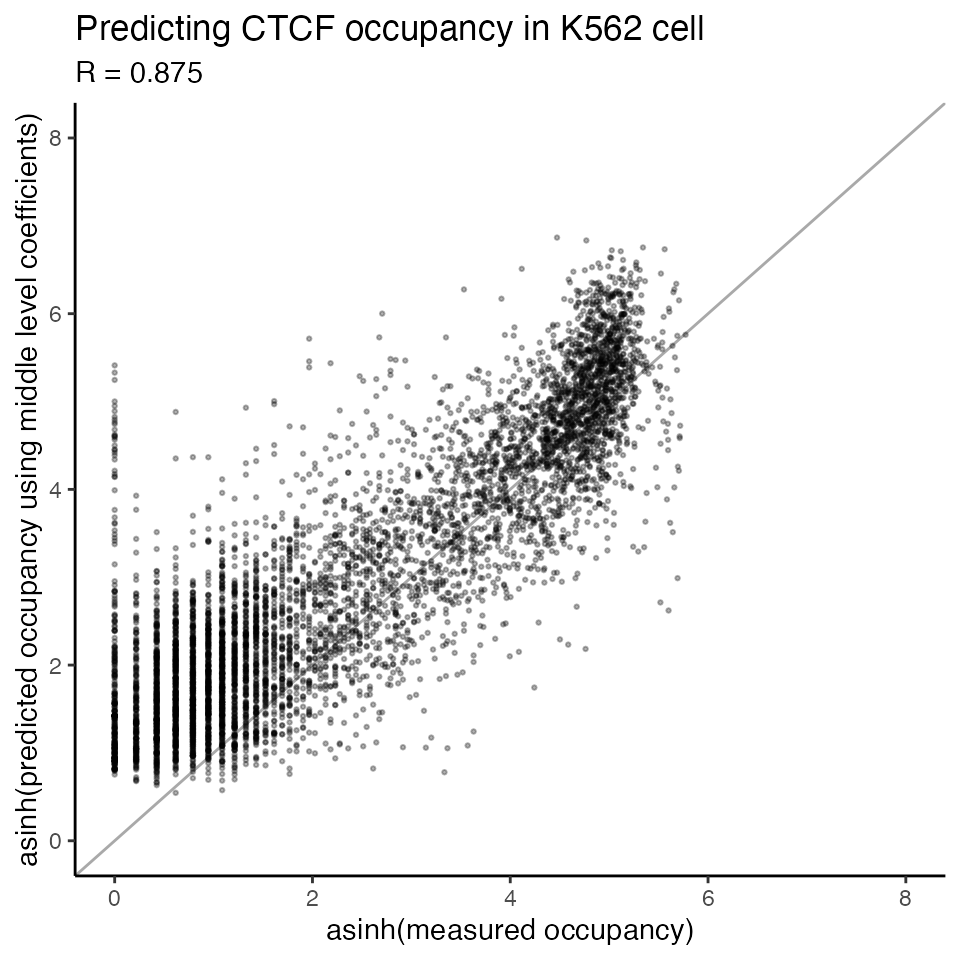
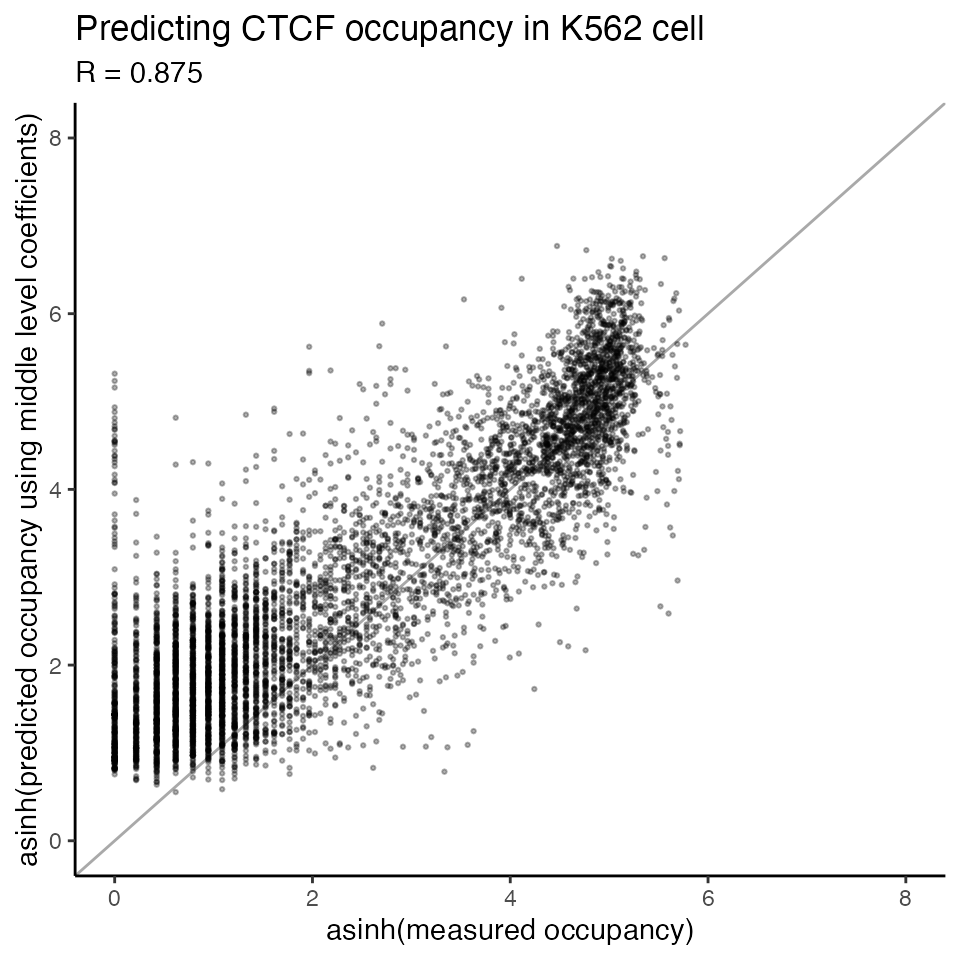
updated website

diff --git a/docs/articles/predict_TF_occupancy_with_trained_model.html b/docs/articles/predict_TF_occupancy_with_trained_model.html
@@ -33,7 +33,7 @@
       </button>
       <span class="navbar-brand">
         <a class="navbar-link" href="../index.html">TOP</a>
-        <span class="version label label-default" data-toggle="tooltip" data-placement="bottom" title="">0.10.0</span>
+        <span class="version label label-default" data-toggle="tooltip" data-placement="bottom" title="">0.11.0</span>
       </span>
     </div>
 
@@ -98,8 +98,7 @@
 <h2 id="load-top-r-package">Load TOP R package<a class="anchor" aria-label="anchor" href="#load-top-r-package"></a>
 </h2>
 <div class="sourceCode" id="cb1"><pre class="downlit sourceCode r">
-<code class="sourceCode R"><span class="kw"><a href="https://rdrr.io/r/base/library.html" class="external-link">library</a></span><span class="op">(</span><span class="va"><a href="https://github.com/kevinlkx/TOP" class="external-link">TOP</a></span><span class="op">)</span>
-<span class="kw"><a href="https://rdrr.io/r/base/library.html" class="external-link">library</a></span><span class="op">(</span><span class="va"><a href="https://ggplot2.tidyverse.org" class="external-link">ggplot2</a></span><span class="op">)</span></code></pre></div>
+<code class="sourceCode R"><span class="kw"><a href="https://rdrr.io/r/base/library.html" class="external-link">library</a></span><span class="op">(</span><span class="va"><a href="https://github.com/kevinlkx/TOP" class="external-link">TOP</a></span><span class="op">)</span></code></pre></div>
 </div>
 <div class="section level2">
 <h2 id="load-data">Load data<a class="anchor" aria-label="anchor" href="#load-data"></a>
@@ -121,32 +120,44 @@
 <span class="co">#&gt; 3    0    0</span></code></pre></div>
 </div>
 <div class="section level2">
-<h2 id="load-pre-trained-top-models">Load pre-trained TOP models<a class="anchor" aria-label="anchor" href="#load-pre-trained-top-models"></a>
+<h2 id="predict-tf-occupancy-using-pretrained-top-model">Predict TF occupancy using pretrained TOP model<a class="anchor" aria-label="anchor" href="#predict-tf-occupancy-using-pretrained-top-model"></a>
 </h2>
-<p>We have trained models for DNase-seq and ATAC-seq using ENCODE data.</p>
-<p>The pre-trained model parameters can be downloaded from <a href="https://users.cs.duke.edu/~amink/software/" class="external-link">here</a>.</p>
-</div>
-<div class="section level2">
-<h2 id="predict-tf-occupancy-using-trained-top-model">Predict TF occupancy using trained TOP model<a class="anchor" aria-label="anchor" href="#predict-tf-occupancy-using-trained-top-model"></a>
-</h2>
-<p>We can make predictions using the posterior mean of pre-trained TOP model regression coefficients for ATAC-seq.</p>
+<p>We can predict TF occupancy for a TF in a cell type using the <code><a href="../reference/predict_TOP.html">predict_TOP()</a></code> function.</p>
+<p>We have trained TOP models for ATAC-seq and DNase-seq (Duke and UW) data using ENCODE data, and included pre-trained TOP model coefficients (posterior mean) within the package.</p>
+<p>If you want to use the pre-trained TOP model coefficients included in the package, you simply specify the model to use, by setting <code>use_model</code> equals “ATAC”, “DukeDNase”, or “UwDNase”.</p>
+<p>For example, here we chose the pretrained “ATAC” model.</p>
+<p>We chose the “bottom” level regression coefficients as we know that have CTCF ChIP data from K562 cell type in our training set.</p>
 <div class="sourceCode" id="cb3"><pre class="downlit sourceCode r">
-<code class="sourceCode R"><span class="va">TOP_coef</span> <span class="op">&lt;-</span> <span class="fu"><a href="https://rdrr.io/r/base/readRDS.html" class="external-link">readRDS</a></span><span class="op">(</span><span class="fu"><a href="https://rdrr.io/r/base/system.file.html" class="external-link">system.file</a></span><span class="op">(</span><span class="st">"extdata/trained_model_coef/ATAC"</span>, <span class="st">"TOP_M5_posterior_mean_coef.rds"</span>, package <span class="op">=</span> <span class="st">"TOP"</span><span class="op">)</span><span class="op">)</span></code></pre></div>
-<p>Now we can predict CTCF occupancy in K562 cell type using the <code>predict_TOP</code> function:</p>
-<p>We can choose the “bottom” level regression coefficients as we have CTCF ChIP data from K562 cell type in our training set.</p>
-<div class="sourceCode" id="cb4"><pre class="downlit sourceCode r">
 <code class="sourceCode R"><span class="va">TOP_result</span> <span class="op">&lt;-</span> <span class="fu"><a href="../reference/predict_TOP.html">predict_TOP</a></span><span class="op">(</span><span class="va">data</span>, 
-                          TOP_coef <span class="op">=</span> <span class="va">TOP_coef</span>, 
                           tf_name <span class="op">=</span> <span class="st">'CTCF'</span>, 
                           cell_type <span class="op">=</span> <span class="st">'K562'</span>, 
+                          use_model <span class="op">=</span> <span class="st">'ATAC'</span>, 
                           level <span class="op">=</span> <span class="st">'bottom'</span>, 
-                          logistic_model <span class="op">=</span> <span class="cn">FALSE</span>,
-                          transform <span class="op">=</span> <span class="st">'asinh'</span><span class="op">)</span> 
+                          logistic_model <span class="op">=</span> <span class="cn">FALSE</span>, 
+                          transform <span class="op">=</span> <span class="st">'asinh'</span><span class="op">)</span>
+<span class="co">#&gt; Use pretrained TOP ATAC model coefficients ...</span>
 <span class="co">#&gt; Use the bottom level model for CTCF in K562 cell type.</span>
 <span class="co">#&gt; Select features: pwm.score bin1 bin2 bin3 bin4 bin5 </span>
 <span class="co">#&gt; Predicting TF occupancy using TOP occupancy model...</span></code></pre></div>
-<p>Or, we can select the “best” available level of coefficients for the TF and cell type of interest. In this case, the “bottom” level is the best level.</p>
+<p>Or, we can let the software to choose the “best” available level of coefficients for the TF and cell type of interest. In this case, it automatically selected the “bottom” level as the best level.</p>
+<div class="sourceCode" id="cb4"><pre class="downlit sourceCode r">
+<code class="sourceCode R"><span class="va">TOP_result</span> <span class="op">&lt;-</span> <span class="fu"><a href="../reference/predict_TOP.html">predict_TOP</a></span><span class="op">(</span><span class="va">data</span>, 
+                          tf_name <span class="op">=</span> <span class="st">'CTCF'</span>, 
+                          cell_type <span class="op">=</span> <span class="st">'K562'</span>, 
+                          use_model <span class="op">=</span> <span class="st">'ATAC'</span>, 
+                          level <span class="op">=</span> <span class="st">'best'</span>, 
+                          logistic_model <span class="op">=</span> <span class="cn">FALSE</span>, 
+                          transform <span class="op">=</span> <span class="st">'asinh'</span><span class="op">)</span>
+<span class="co">#&gt; Use pretrained TOP ATAC model coefficients ...</span>
+<span class="co">#&gt; Use the bottom level model for CTCF in K562 cell type.</span>
+<span class="co">#&gt; Select features: pwm.score bin1 bin2 bin3 bin4 bin5 </span>
+<span class="co">#&gt; Predicting TF occupancy using TOP occupancy model...</span></code></pre></div>
+<p>If you want to use your own model, you can specify that by setting <code>TOP_coef</code> to your TOP model coefficients. Check <a href="train_TOP_model.html">this</a> and <a href="train_TOP_logistic_model.html">this</a> tutorials to train your own models.</p>
+<p>For example, we can load TOP quantitative occupancy model for ATAC-seq data included in the packge:</p>
 <div class="sourceCode" id="cb5"><pre class="downlit sourceCode r">
+<code class="sourceCode R"><span class="va">TOP_coef</span> <span class="op">&lt;-</span> <span class="fu"><a href="https://rdrr.io/r/base/readRDS.html" class="external-link">readRDS</a></span><span class="op">(</span><span class="fu"><a href="https://rdrr.io/r/base/system.file.html" class="external-link">system.file</a></span><span class="op">(</span><span class="st">"extdata/trained_model_coef/ATAC"</span>, <span class="st">"TOP_M5_posterior_mean_coef.rds"</span>, package <span class="op">=</span> <span class="st">"TOP"</span><span class="op">)</span><span class="op">)</span></code></pre></div>
+<p>We can then make predictions by setting <code>TOP_coef</code> to the specified model.</p>
+<div class="sourceCode" id="cb6"><pre class="downlit sourceCode r">
 <code class="sourceCode R"><span class="va">TOP_result</span> <span class="op">&lt;-</span> <span class="fu"><a href="../reference/predict_TOP.html">predict_TOP</a></span><span class="op">(</span><span class="va">data</span>, 
                           TOP_coef <span class="op">=</span> <span class="va">TOP_coef</span>, 
                           tf_name <span class="op">=</span> <span class="st">'CTCF'</span>, 
@@ -159,7 +170,7 @@
 <span class="co">#&gt; Predicting TF occupancy using TOP occupancy model...</span></code></pre></div>
 <p>This result contains a list with the level of model, regression coefficients (posterior mean) used to make predictions, and predictions of TF occupancy.</p>
 <p>The prediction result contains the training data together with predicted TF occupancy for each candidate site:</p>
-<div class="sourceCode" id="cb6"><pre class="downlit sourceCode r">
+<div class="sourceCode" id="cb7"><pre class="downlit sourceCode r">
 <code class="sourceCode R"><span class="va">TOP_predictions</span> <span class="op">&lt;-</span> <span class="va">TOP_result</span><span class="op">$</span><span class="va">predictions</span>
 
 <span class="fu"><a href="https://rdrr.io/r/utils/head.html" class="external-link">head</a></span><span class="op">(</span><span class="va">TOP_predictions</span>, <span class="fl">5</span><span class="op">)</span>
@@ -170,13 +181,13 @@
 <span class="co">#&gt; 4 chr1  91319  91538 site4   15.1774      + 3.11e-06 0.2232134 0.2232134</span>
 <span class="co">#&gt; 5 chr1 104884 105103 site5   15.6613      - 2.32e-06 0.0000000 0.0000000</span>
 <span class="co">#&gt;        bin3      bin4      bin5 predicted</span>
-<span class="co">#&gt; 1 0.0000000 0.0000000 0.0000000 1.6817220</span>
-<span class="co">#&gt; 2 0.0000000 0.0000000 0.0000000 1.8754262</span>
-<span class="co">#&gt; 3 0.0000000 0.0000000 0.0000000 0.9999525</span>
-<span class="co">#&gt; 4 0.0000000 0.4361803 0.2232134 1.3520442</span>
-<span class="co">#&gt; 5 0.2232134 0.0000000 0.0000000 0.8549006</span></code></pre></div>
+<span class="co">#&gt; 1 0.0000000 0.0000000 0.0000000 1.7106860</span>
+<span class="co">#&gt; 2 0.0000000 0.0000000 0.0000000 1.8979839</span>
+<span class="co">#&gt; 3 0.0000000 0.0000000 0.0000000 1.0127283</span>
+<span class="co">#&gt; 4 0.0000000 0.4361803 0.2232134 1.3511011</span>
+<span class="co">#&gt; 5 0.2232134 0.0000000 0.0000000 0.8710499</span></code></pre></div>
 <p>We can plot the predicted occupancy vs. measured occupancy</p>
-<div class="sourceCode" id="cb7"><pre class="downlit sourceCode r">
+<div class="sourceCode" id="cb8"><pre class="downlit sourceCode r">
 <code class="sourceCode R"><span class="va">data_chip</span> <span class="op">&lt;-</span> <span class="fu"><a href="https://rdrr.io/r/base/readRDS.html" class="external-link">readRDS</a></span><span class="op">(</span><span class="fu"><a href="https://rdrr.io/r/base/system.file.html" class="external-link">system.file</a></span><span class="op">(</span><span class="st">"extdata/example_data"</span>, <span class="st">"CTCF.K562.ATAC.chip.example.data.rds"</span>, package <span class="op">=</span> <span class="st">"TOP"</span><span class="op">)</span><span class="op">)</span>
 
 <span class="fu"><a href="../reference/scatterplot_predictions.html">scatterplot_predictions</a></span><span class="op">(</span>x <span class="op">=</span> <span class="fu"><a href="https://rdrr.io/r/base/Hyperbolic.html" class="external-link">asinh</a></span><span class="op">(</span><span class="va">data_chip</span><span class="op">$</span><span class="va">chip</span><span class="op">)</span>,
@@ -188,7 +199,7 @@
                         ylim <span class="op">=</span> <span class="fu"><a href="https://rdrr.io/r/base/c.html" class="external-link">c</a></span><span class="op">(</span><span class="fl">0</span>,<span class="fl">8</span><span class="op">)</span><span class="op">)</span></code></pre></div>
 <p><img src="predict_TF_occupancy_with_trained_model_files/figure-html/plot-predicted-measured-1.png" width="480"></p>
 <p>We can also try the “middle” level regression coefficients for CTCF, which are cell-type generic, thus could be used to predict CTCF in any cell types.</p>
-<div class="sourceCode" id="cb8"><pre class="downlit sourceCode r">
+<div class="sourceCode" id="cb9"><pre class="downlit sourceCode r">
 <code class="sourceCode R"><span class="va">TOP_middle_result</span> <span class="op">&lt;-</span> <span class="fu"><a href="../reference/predict_TOP.html">predict_TOP</a></span><span class="op">(</span><span class="va">data</span>, 
                                  TOP_coef <span class="op">=</span> <span class="va">TOP_coef</span>, 
                                  tf_name <span class="op">=</span> <span class="st">'CTCF'</span>, 
@@ -201,7 +212,7 @@
 
 <span class="va">TOP_middle_predictions</span> <span class="op">&lt;-</span> <span class="va">TOP_middle_result</span><span class="op">$</span><span class="va">predictions</span></code></pre></div>
 <p>We can see the performance of the “middle” level model is very close to the “bottom” level.</p>
-<div class="sourceCode" id="cb9"><pre class="downlit sourceCode r">
+<div class="sourceCode" id="cb10"><pre class="downlit sourceCode r">
 <code class="sourceCode R"><span class="fu"><a href="../reference/scatterplot_predictions.html">scatterplot_predictions</a></span><span class="op">(</span>x <span class="op">=</span> <span class="fu"><a href="https://rdrr.io/r/base/Hyperbolic.html" class="external-link">asinh</a></span><span class="op">(</span><span class="va">data_chip</span><span class="op">$</span><span class="va">chip</span><span class="op">)</span>,
                         y <span class="op">=</span> <span class="fu"><a href="https://rdrr.io/r/base/Hyperbolic.html" class="external-link">asinh</a></span><span class="op">(</span><span class="va">TOP_middle_predictions</span><span class="op">$</span><span class="va">predicted</span><span class="op">)</span>,
                         title <span class="op">=</span> <span class="st">'Predicting CTCF occupancy in K562 cell'</span>,
@@ -214,24 +225,22 @@
 <div class="section level2">
 <h2 id="predict-tf-binding-probability-using-trained-top-logistic-model">Predict TF binding probability using trained TOP logistic model<a class="anchor" aria-label="anchor" href="#predict-tf-binding-probability-using-trained-top-logistic-model"></a>
 </h2>
-<p>We can also predict TF binding probability for these candidate sites using pre-trained TOP logistic model.</p>
-<p>Load pre-trained TOP logistic regression coefficients:</p>
-<div class="sourceCode" id="cb10"><pre class="downlit sourceCode r">
-<code class="sourceCode R"><span class="va">TOP_logistic_coef</span> <span class="op">&lt;-</span> <span class="fu"><a href="https://rdrr.io/r/base/readRDS.html" class="external-link">readRDS</a></span><span class="op">(</span><span class="fu"><a href="https://rdrr.io/r/base/system.file.html" class="external-link">system.file</a></span><span class="op">(</span><span class="st">"extdata/trained_model_coef/ATAC"</span>, <span class="st">"TOP_logistic_M5_posterior_mean_coef.rds"</span>, package <span class="op">=</span> <span class="st">"TOP"</span><span class="op">)</span><span class="op">)</span></code></pre></div>
-<p>Predict CTCF binding probability in K562 using the “bottom” level logistic model:</p>
+<p>We can also predict TF binding probability for these candidate sites using pre-trained TOP logistic model, by setting <code>logistic_model = TRUE</code>.</p>
+<p>Predict CTCF binding probability in K562:</p>
 <div class="sourceCode" id="cb11"><pre class="downlit sourceCode r">
 <code class="sourceCode R"><span class="va">TOP_result</span> <span class="op">&lt;-</span> <span class="fu"><a href="../reference/predict_TOP.html">predict_TOP</a></span><span class="op">(</span><span class="va">data</span>, 
-                          TOP_coef <span class="op">=</span> <span class="va">TOP_logistic_coef</span>, 
                           tf_name <span class="op">=</span> <span class="st">'CTCF'</span>,
                           cell_type <span class="op">=</span> <span class="st">'K562'</span>,
-                          level <span class="op">=</span> <span class="st">'bottom'</span>,
+                          use_model <span class="op">=</span> <span class="st">'ATAC'</span>,
+                          level <span class="op">=</span> <span class="st">'best'</span>,
                           logistic_model <span class="op">=</span> <span class="cn">TRUE</span><span class="op">)</span>
+<span class="co">#&gt; Use pretrained TOP ATAC model coefficients ...</span>
 <span class="co">#&gt; Use the bottom level model for CTCF in K562 cell type.</span>
 <span class="co">#&gt; Select features: pwm.score bin1 bin2 bin3 bin4 bin5 </span>
 <span class="co">#&gt; Predicting TF binding probability using TOP logistic model...</span>
-<span class="va">predicted.prob</span> <span class="op">&lt;-</span> <span class="va">TOP_result</span><span class="op">$</span><span class="va">predictions</span>
+<span class="va">logistic_predicted</span> <span class="op">&lt;-</span> <span class="va">TOP_result</span><span class="op">$</span><span class="va">predictions</span>
 
-<span class="fu"><a href="https://rdrr.io/r/utils/head.html" class="external-link">head</a></span><span class="op">(</span><span class="va">predicted.prob</span>, <span class="fl">5</span><span class="op">)</span>
+<span class="fu"><a href="https://rdrr.io/r/utils/head.html" class="external-link">head</a></span><span class="op">(</span><span class="va">logistic_predicted</span>, <span class="fl">5</span><span class="op">)</span>
 <span class="co">#&gt;    chr  start    end  name pwm.score strand  p.value      bin1      bin2</span>
 <span class="co">#&gt; 1 chr1  11122  11341 site1   22.4839      - 9.17e-09 0.2232134 0.0000000</span>
 <span class="co">#&gt; 2 chr1  11180  11399 site2   20.7581      - 5.22e-08 0.0000000 0.2232134</span>
@@ -239,11 +248,11 @@
 <span class="co">#&gt; 4 chr1  91319  91538 site4   15.1774      + 3.11e-06 0.2232134 0.2232134</span>
 <span class="co">#&gt; 5 chr1 104884 105103 site5   15.6613      - 2.32e-06 0.0000000 0.0000000</span>
 <span class="co">#&gt;        bin3      bin4      bin5   predicted</span>
-<span class="co">#&gt; 1 0.0000000 0.0000000 0.0000000 0.059607973</span>
-<span class="co">#&gt; 2 0.0000000 0.0000000 0.0000000 0.065258576</span>
-<span class="co">#&gt; 3 0.0000000 0.0000000 0.0000000 0.014122312</span>
-<span class="co">#&gt; 4 0.0000000 0.4361803 0.2232134 0.018720164</span>
-<span class="co">#&gt; 5 0.2232134 0.0000000 0.0000000 0.009578779</span></code></pre></div>
+<span class="co">#&gt; 1 0.0000000 0.0000000 0.0000000 0.061786177</span>
+<span class="co">#&gt; 2 0.0000000 0.0000000 0.0000000 0.067183459</span>
+<span class="co">#&gt; 3 0.0000000 0.0000000 0.0000000 0.014545759</span>
+<span class="co">#&gt; 4 0.0000000 0.4361803 0.2232134 0.018758331</span>
+<span class="co">#&gt; 5 0.2232134 0.0000000 0.0000000 0.009980625</span></code></pre></div>
 </div>
   </div>
 

diff --git a/docs/reference/predict_TOP.html b/docs/reference/predict_TOP.html
@@ -18,7 +18,7 @@ using TOP model trained from ChIP-seq read counts or binary labels."><!-- mathja
       </button>
       <span class="navbar-brand">
         <a class="navbar-link" href="../index.html">TOP</a>
-        <span class="version label label-default" data-toggle="tooltip" data-placement="bottom" title="">0.10.0</span>
+        <span class="version label label-default" data-toggle="tooltip" data-placement="bottom" title="">0.11.0</span>
       </span>
     </div>
 
@@ -76,6 +76,7 @@ using TOP model trained from ChIP-seq read counts or binary labels.</p>
   <span class="va">TOP_coef</span>,
   <span class="va">tf_name</span>,
   <span class="va">cell_type</span>,
+  use_model <span class="op">=</span> <span class="fu"><a href="https://rdrr.io/r/base/c.html" class="external-link">c</a></span><span class="op">(</span><span class="st">"ATAC"</span>, <span class="st">"DukeDNase"</span>, <span class="st">"UwDNase"</span><span class="op">)</span>,
   level <span class="op">=</span> <span class="fu"><a href="https://rdrr.io/r/base/c.html" class="external-link">c</a></span><span class="op">(</span><span class="st">"best"</span>, <span class="st">"bottom"</span>, <span class="st">"middle"</span>, <span class="st">"top"</span><span class="op">)</span>,
   logistic_model <span class="op">=</span> <span class="cn">FALSE</span>,
   transform <span class="op">=</span> <span class="fu"><a href="https://rdrr.io/r/base/c.html" class="external-link">c</a></span><span class="op">(</span><span class="st">"asinh"</span>, <span class="st">"log2"</span>, <span class="st">"log"</span>, <span class="st">"none"</span><span class="op">)</span>
@@ -89,15 +90,18 @@ using TOP model trained from ChIP-seq read counts or binary labels.</p>
 <dt>TOP_coef</dt>
 <dd><p>A list containing the posterior mean of TOP regression coefficients.</p></dd>
 <dt>tf_name</dt>
-<dd><p>specifies the TF name to make predictions.
+<dd><p>Specifies the TF name to make predictions.
 It will find the model parameters trained for this TF.
 This is not needed (not used) when <code>level = 'top'</code>.</p></dd>
 <dt>cell_type</dt>
-<dd><p>specifies the cell type to make predictions.
+<dd><p>Specifies the cell type to make predictions.
 It will find the model parameters trained for this cell type.
 This is not needed (not used) when <code>level = 'middle'</code> or <code>level = 'top'</code>.</p></dd>
+<dt>use_model</dt>
+<dd><p>Use pretrained model if <code>TOP_coef</code> is not supplied.
+Options:  ‘ATAC’, ‘DukeDNase’, ‘UwDNase’.</p></dd>
 <dt>level</dt>
-<dd><p>Specific the TOP model hierarchy level to use.
+<dd><p>Specifies the TOP model level to use.
 Options: ‘best’, ‘bottom’, ‘middle’, or ‘top’.
 When <code>level = 'best'</code>, use the best (lowest available) level of the
 hierarchy for the TF x cell type combination.
@@ -177,6 +181,22 @@ This only applies when <code>logistic_model = FALSE</code>.</p></dd>
 <span class="r-in"><span class="va">result</span> <span class="op">&lt;-</span> <span class="fu">predict_TOP</span><span class="op">(</span><span class="va">data</span>, <span class="va">TOP_coef</span>,</span>
 <span class="r-in">                     tf_name <span class="op">=</span> <span class="st">'CTCF'</span>, level <span class="op">=</span> <span class="st">'middle'</span>,</span>
 <span class="r-in">                     logistic_model <span class="op">=</span> <span class="cn">TRUE</span><span class="op">)</span></span>
+<span class="r-in"></span>
+<span class="r-in"><span class="co"># If TOP_coef is not specified, it will automatically use the</span></span>
+<span class="r-in"><span class="co"># pretrained models included in the package.</span></span>
+<span class="r-in"></span>
+<span class="r-in"><span class="co"># Predict using pretrained ATAC quantitative occupancy model</span></span>
+<span class="r-in"><span class="va">result</span> <span class="op">&lt;-</span> <span class="fu">predict_TOP</span><span class="op">(</span><span class="va">data</span>,</span>
+<span class="r-in">                      tf_name <span class="op">=</span> <span class="st">'CTCF'</span>, cell_type <span class="op">=</span> <span class="st">'K562'</span>,</span>
+<span class="r-in">                      use_model <span class="op">=</span> <span class="st">'ATAC'</span>, level <span class="op">=</span> <span class="st">'best'</span>,</span>
+<span class="r-in">                      logistic_model <span class="op">=</span> <span class="cn">FALSE</span>,</span>
+<span class="r-in">                      transform <span class="op">=</span> <span class="st">'asinh'</span><span class="op">)</span></span>
+<span class="r-in"></span>
+<span class="r-in"><span class="co"># Predict using pretrained ATAC logistic model</span></span>
+<span class="r-in"><span class="va">result</span> <span class="op">&lt;-</span> <span class="fu">predict_TOP</span><span class="op">(</span><span class="va">data</span>,</span>
+<span class="r-in">                      tf_name <span class="op">=</span> <span class="st">'CTCF'</span>, cell_type <span class="op">=</span> <span class="st">'K562'</span>,</span>
+<span class="r-in">                      use_model <span class="op">=</span> <span class="st">'ATAC'</span>, level <span class="op">=</span> <span class="st">'best'</span>,</span>
+<span class="r-in">                      logistic_model <span class="op">=</span> <span class="cn">TRUE</span><span class="op">)</span></span>
 <span class="r-in"><span class="op">}</span></span>
 <span class="r-in"></span>
 </code></pre></div>

diff --git a/docs/reference/fit_TOP_M5_model.html b/docs/reference/fit_TOP_M5_model.html
@@ -22,7 +22,7 @@ the partitions on separate machines by specifying the partition to run."><!-- ma
       </button>
       <span class="navbar-brand">
         <a class="navbar-link" href="../index.html">TOP</a>
-        <span class="version label label-default" data-toggle="tooltip" data-placement="bottom" title="">0.10.0</span>
+        <span class="version label label-default" data-toggle="tooltip" data-placement="bottom" title="">0.11.0</span>
       </span>
     </div>
 
@@ -170,7 +170,6 @@ Otherwise, only show progress bars.</p></dd>
 <span class="r-in"><span class="co"># The following example runs 5000 iterations of Gibbs sampling in total,</span></span>
 <span class="r-in"><span class="co"># including 1000 burn-ins, with 3 Markov chains, at a thinning rate of 2,</span></span>
 <span class="r-in"><span class="co"># and save the posterior samples to the 'TOP_fit' directory.</span></span>
-<span class="r-in"></span>
 <span class="r-in"><span class="va">all_TOP_samples</span> <span class="op">&lt;-</span> <span class="fu">fit_TOP_M5_model</span><span class="op">(</span><span class="va">assembled_training_data</span>,</span>
 <span class="r-in">                                    logistic_model <span class="op">=</span> <span class="cn">FALSE</span>,</span>
 <span class="r-in">                                    transform <span class="op">=</span> <span class="st">'asinh'</span>,</span>
@@ -182,7 +181,6 @@ Otherwise, only show progress bars.</p></dd>
 <span class="r-in"></span>
 <span class="r-in"><span class="co"># We can also obtain the posterior samples separately for each partition,</span></span>
 <span class="r-in"><span class="co"># For example, to obtain the posterior samples for partition #3 only:</span></span>
-<span class="r-in"></span>
 <span class="r-in"><span class="va">TOP_samples_part3</span> <span class="op">&lt;-</span> <span class="fu">fit_TOP_M5_model</span><span class="op">(</span><span class="va">assembled_training_data</span>,</span>
 <span class="r-in">                                      logistic_model <span class="op">=</span> <span class="cn">FALSE</span>,</span>
 <span class="r-in">                                      transform <span class="op">=</span> <span class="st">'asinh'</span>,</span>
@@ -195,7 +193,6 @@ Otherwise, only show progress bars.</p></dd>
 <span class="r-in"></span>
 <span class="r-in"></span>
 <span class="r-in"><span class="co"># Example to train TOP logistic (binary) model:</span></span>
-<span class="r-in"></span>
 <span class="r-in"><span class="va">all_TOP_samples</span> <span class="op">&lt;-</span> <span class="fu">fit_TOP_M5_model</span><span class="op">(</span><span class="va">assembled_training_data</span>,</span>
 <span class="r-in">                                    logistic_model <span class="op">=</span> <span class="cn">TRUE</span>,</span>
 <span class="r-in">                                    n_iter <span class="op">=</span> <span class="fl">5000</span>,</span>

diff --git a/docs/articles/train_TOP_logistic_model.html b/docs/articles/train_TOP_logistic_model.html
@@ -33,7 +33,7 @@
       </button>
       <span class="navbar-brand">
         <a class="navbar-link" href="../index.html">TOP</a>
-        <span class="version label label-default" data-toggle="tooltip" data-placement="bottom" title="">0.10.0</span>
+        <span class="version label label-default" data-toggle="tooltip" data-placement="bottom" title="">0.11.0</span>
       </span>
     </div>
 
@@ -97,12 +97,12 @@
 <div class="section level2">
 <h2 id="prepare-training-data">Prepare training data<a class="anchor" aria-label="anchor" href="#prepare-training-data"></a>
 </h2>
-<p>Similar to the steps in <a href="train_TOP_model.html">Training TOP quantitative occupancy model</a>, We need to prepare and assemble the training data containing all training TF x cell type combinations.</p>
+<p>Similar to the steps in <a href="train_TOP_model.html">Training TOP quantitative occupancy model</a>, we need to prepare and assemble the training data containing all training TF x cell type combinations.</p>
 </div>
 <div class="section level2">
 <h2 id="load-packages">Load packages<a class="anchor" aria-label="anchor" href="#load-packages"></a>
 </h2>
-<p>You need to have R packages <a href="https://cran.r-project.org/web/packages/R2jags/index.html" class="external-link">R2jags</a> and <a href="https://cran.r-project.org/web/packages/doParallel/index.html" class="external-link">doParallel</a> installed to train your own models, as we use <a href="https://mcmc-jags.sourceforge.io" class="external-link">JAGS</a> to run Gibbs sampling for the Bayesian hierarchical model in the current implementation of the model.</p>
+<p>We need to have R packages <a href="https://cran.r-project.org/web/packages/R2jags/index.html" class="external-link">R2jags</a> and <a href="https://cran.r-project.org/web/packages/doParallel/index.html" class="external-link">doParallel</a> installed to train TOP models, as we use <a href="https://mcmc-jags.sourceforge.io" class="external-link">JAGS</a> to run Gibbs sampling for the Bayesian hierarchical model in the current implementation of the model.</p>
 <div class="sourceCode" id="cb1"><pre class="downlit sourceCode r">
 <code class="sourceCode R"><span class="kw"><a href="https://rdrr.io/r/base/library.html" class="external-link">library</a></span><span class="op">(</span><span class="va"><a href="https://github.com/kevinlkx/TOP" class="external-link">TOP</a></span><span class="op">)</span></code></pre></div>
 <p><strong>Step 1: Prepare training data for each TF in each cell type</strong></p>

diff --git a/docs/articles/train_TOP_model.html b/docs/articles/train_TOP_model.html
@@ -33,7 +33,7 @@
       </button>
       <span class="navbar-brand">
         <a class="navbar-link" href="../index.html">TOP</a>
-        <span class="version label label-default" data-toggle="tooltip" data-placement="bottom" title="">0.10.0</span>
+        <span class="version label label-default" data-toggle="tooltip" data-placement="bottom" title="">0.11.0</span>
       </span>
     </div>
 
@@ -103,7 +103,7 @@
 <div class="section level2">
 <h2 id="load-packages">Load packages<a class="anchor" aria-label="anchor" href="#load-packages"></a>
 </h2>
-<p>You need to have R packages <a href="https://cran.r-project.org/web/packages/R2jags/index.html" class="external-link">R2jags</a> and <a href="https://cran.r-project.org/web/packages/doParallel/index.html" class="external-link">doParallel</a> installed to train your own models, as we use <a href="https://mcmc-jags.sourceforge.io" class="external-link">JAGS</a> to run Gibbs sampling for the Bayesian hierarchical model in the current implementation of the model.</p>
+<p>We need to have R packages <a href="https://cran.r-project.org/web/packages/R2jags/index.html" class="external-link">R2jags</a> and <a href="https://cran.r-project.org/web/packages/doParallel/index.html" class="external-link">doParallel</a> installed to train TOP models, as we use <a href="https://mcmc-jags.sourceforge.io" class="external-link">JAGS</a> to run Gibbs sampling for the Bayesian hierarchical model in the current implementation of the model.</p>
 <div class="sourceCode" id="cb1"><pre class="downlit sourceCode r">
 <code class="sourceCode R"><span class="kw"><a href="https://rdrr.io/r/base/library.html" class="external-link">library</a></span><span class="op">(</span><span class="va"><a href="https://github.com/kevinlkx/TOP" class="external-link">TOP</a></span><span class="op">)</span></code></pre></div>
 </div>

diff --git a/docs/authors.html b/docs/authors.html
@@ -17,7 +17,7 @@
       </button>
       <span class="navbar-brand">
         <a class="navbar-link" href="index.html">TOP</a>
-        <span class="version label label-default" data-toggle="tooltip" data-placement="bottom" title="">0.10.0</span>
+        <span class="version label label-default" data-toggle="tooltip" data-placement="bottom" title="">0.11.0</span>
       </span>
     </div>
 
@@ -87,13 +87,13 @@
 
     <p>Luo K, Zhong J, Hartemink A (2022).
 <em>TOP: Predict transcription factor occupancy using DNase- or ATAC-seq data</em>.
-R package version 0.10.0, <a href="https://github.com/kevinlkx/TOP" class="external-link">https://github.com/kevinlkx/TOP</a>. 
+R package version 0.11.0, <a href="https://github.com/kevinlkx/TOP" class="external-link">https://github.com/kevinlkx/TOP</a>. 
 </p>
     <pre>@Manual{,
   title = {TOP: Predict transcription factor occupancy using DNase- or ATAC-seq data},
   author = {Kaixuan Luo and Jianling Zhong and Alex Hartemink},
   year = {2022},
-  note = {R package version 0.10.0},
+  note = {R package version 0.11.0},
   url = {https://github.com/kevinlkx/TOP},
 }</pre>
 

diff --git a/docs/reference/add_chip_peak_labels_to_sites.html b/docs/reference/add_chip_peak_labels_to_sites.html
@@ -22,7 +22,7 @@ and save to the directory chip_peak_dir)."><!-- mathjax --><script src="https://
       </button>
       <span class="navbar-brand">
         <a class="navbar-link" href="../index.html">TOP</a>
-        <span class="version label label-default" data-toggle="tooltip" data-placement="bottom" title="">0.10.0</span>
+        <span class="version label label-default" data-toggle="tooltip" data-placement="bottom" title="">0.11.0</span>
       </span>
     </div>
 

diff --git a/docs/reference/add_chip_signals_to_sites.html b/docs/reference/add_chip_signals_to_sites.html
@@ -22,7 +22,7 @@ and save to the directory chip_signal_dir)."><!-- mathjax --><script src="https:
       </button>
       <span class="navbar-brand">
         <a class="navbar-link" href="../index.html">TOP</a>
-        <span class="version label label-default" data-toggle="tooltip" data-placement="bottom" title="">0.10.0</span>
+        <span class="version label label-default" data-toggle="tooltip" data-placement="bottom" title="">0.11.0</span>
       </span>
     </div>
 

diff --git a/docs/reference/assemble_training_data.html b/docs/reference/assemble_training_data.html
@@ -23,7 +23,7 @@ using the function assemble_partition_training_data()."><!-- mathjax --><script 
       </button>
       <span class="navbar-brand">
         <a class="navbar-link" href="../index.html">TOP</a>
-        <span class="version label label-default" data-toggle="tooltip" data-placement="bottom" title="">0.10.0</span>
+        <span class="version label label-default" data-toggle="tooltip" data-placement="bottom" title="">0.11.0</span>
       </span>
     </div>
 

diff --git a/docs/reference/bin_transform_counts.html b/docs/reference/bin_transform_counts.html
@@ -18,7 +18,7 @@ using MILLIPEDE binning and then take &amp;#8216;sqrt&amp;#8217; or &amp;#8216;l
       </button>
       <span class="navbar-brand">
         <a class="navbar-link" href="../index.html">TOP</a>
-        <span class="version label label-default" data-toggle="tooltip" data-placement="bottom" title="">0.10.0</span>
+        <span class="version label label-default" data-toggle="tooltip" data-placement="bottom" title="">0.11.0</span>
       </span>
     </div>
 

diff --git a/docs/reference/combine_TOP_samples.html b/docs/reference/combine_TOP_samples.html
@@ -18,7 +18,7 @@ from all partitions."><!-- mathjax --><script src="https://cdnjs.cloudflare.com/
       </button>
       <span class="navbar-brand">
         <a class="navbar-link" href="../index.html">TOP</a>
-        <span class="version label label-default" data-toggle="tooltip" data-placement="bottom" title="">0.10.0</span>
+        <span class="version label label-default" data-toggle="tooltip" data-placement="bottom" title="">0.11.0</span>
       </span>
     </div>
 

diff --git a/docs/reference/count_genome_cuts.html b/docs/reference/count_genome_cuts.html
@@ -20,7 +20,7 @@ were shifted so as to address offsets and align the signal across strands."><!--
       </button>
       <span class="navbar-brand">
         <a class="navbar-link" href="../index.html">TOP</a>
-        <span class="version label label-default" data-toggle="tooltip" data-placement="bottom" title="">0.10.0</span>
+        <span class="version label label-default" data-toggle="tooltip" data-placement="bottom" title="">0.11.0</span>
       </span>
     </div>
 
